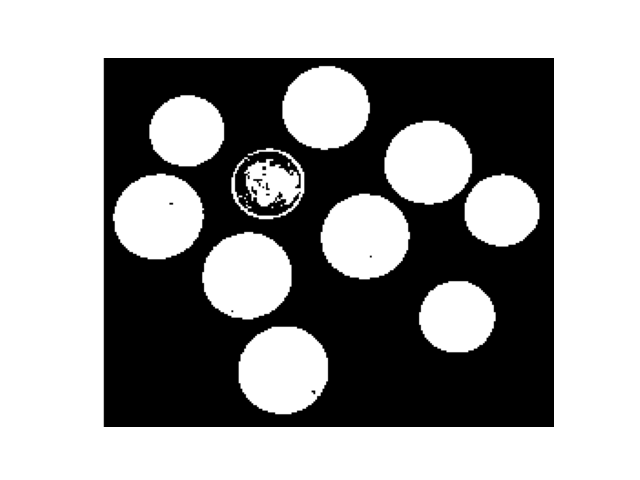
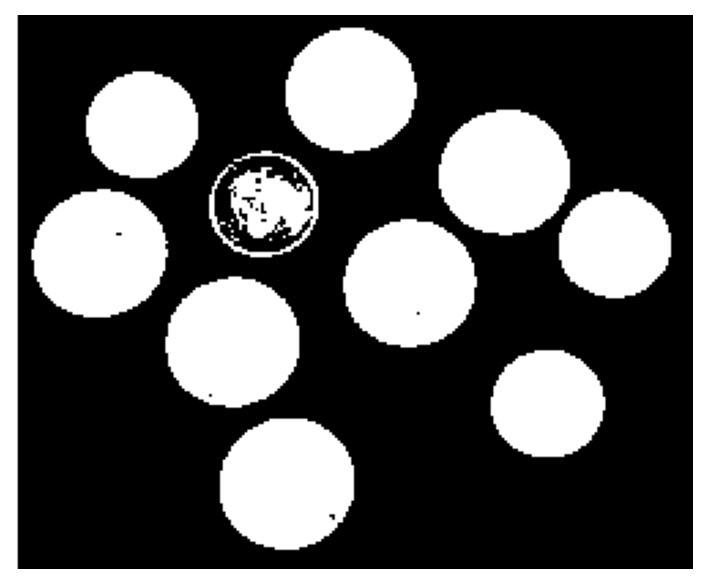
updated code for saving the images of the output plots

diff --git a/assignment1/src/otsu_adaptive.py b/assignment1/src/otsu_adaptive.py
@@ -70,7 +70,8 @@ class good_enough_otsu_adapt:
         adaptive_img = self.adaptive_otsu(window_size)
         plt.imshow(adaptive_img, cmap='gray')
         plt.axis('off')
-        if(save_dir): plt.savefig(f"{save_dir}/task3_adapt_otsu_binary_{window_size}.png")
+        if(save_dir): plt.savefig(f"{save_dir}/task3_adapt_otsu_binary_{window_size}.png",
+                                  bbox_inches='tight', dpi=150)
         
         plt.show()
         plt.close()
@@ -153,7 +154,7 @@ class optimal_otsu_adapt:
         plt.imshow(adaptive_img, cmap='gray')
         plt.axis('off')
         
-        if(save_dir): plt.savefig(f"{save_dir}/task3_adapt_otsu_binary_{window_size}.png")
+        if(save_dir): plt.savefig(f"{save_dir}/task3_adapt_otsu_binary_{window_size}.png", bbox_inches='tight', dpi=150)
         
         plt.show()
         plt.close()

diff --git a/assignment1/src/otsu_ic.py b/assignment1/src/otsu_ic.py
@@ -229,8 +229,8 @@ class optimal_otsu_ic:
         plt.axis('off')
         
         if(save_dir): 
-            if(task): plt.savefig(f"{save_dir}/task3_adapt_otsu_full.png")
-            else : plt.savefig(f"{save_dir}/task2_ic_otsu_binary.png")
+            if(task): plt.savefig(f"{save_dir}/task3_adapt_otsu_full.png", bbox_inches='tight', dpi=150)
+            else : plt.savefig(f"{save_dir}/task2_ic_otsu_binary.png", bbox_inches='tight', dpi=150)
         
         plt.show()
         plt.close()

diff --git a/assignment1/src/cce.py b/assignment1/src/cce.py
@@ -85,7 +85,8 @@ class ConnectedComponentExtractor:
         axes[1].imshow(color_img)
         axes[1].set_title("All Components")
         axes[1].axis("off")
-        if(save_dir): plt.savefig(f"{save_dir}/task4_cce.png")
+        if(save_dir): plt.savefig(f"{save_dir}/task4_cce.png",
+                                  bbox_inches='tight', dpi=150)
 
         plt.show()
 
